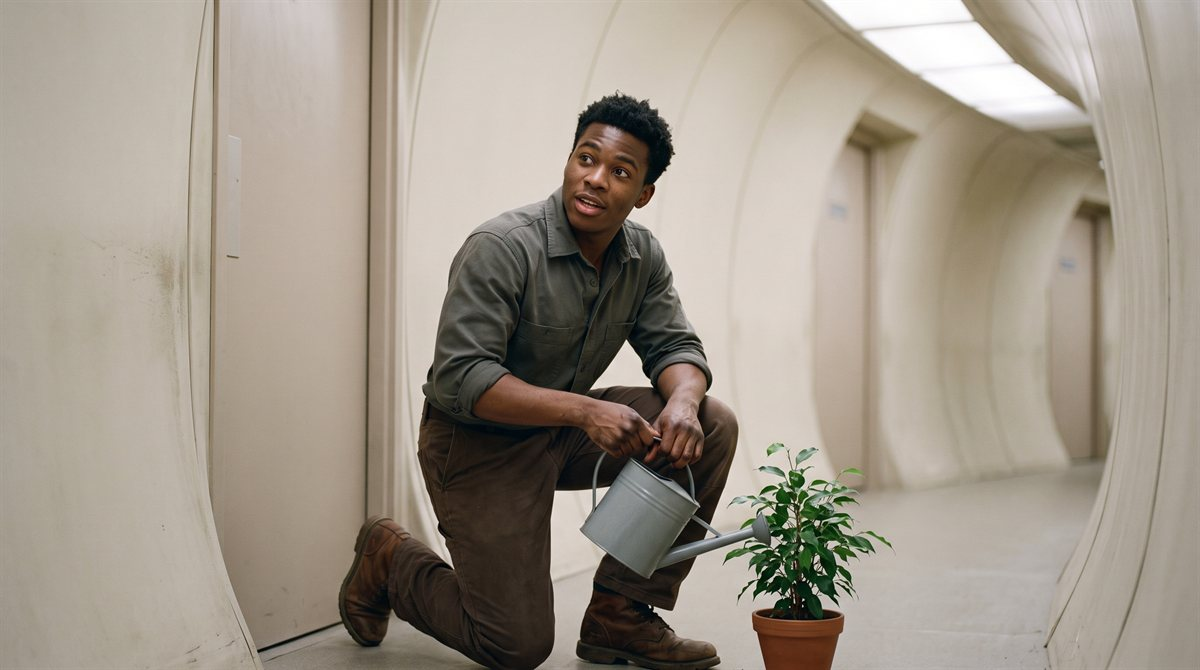
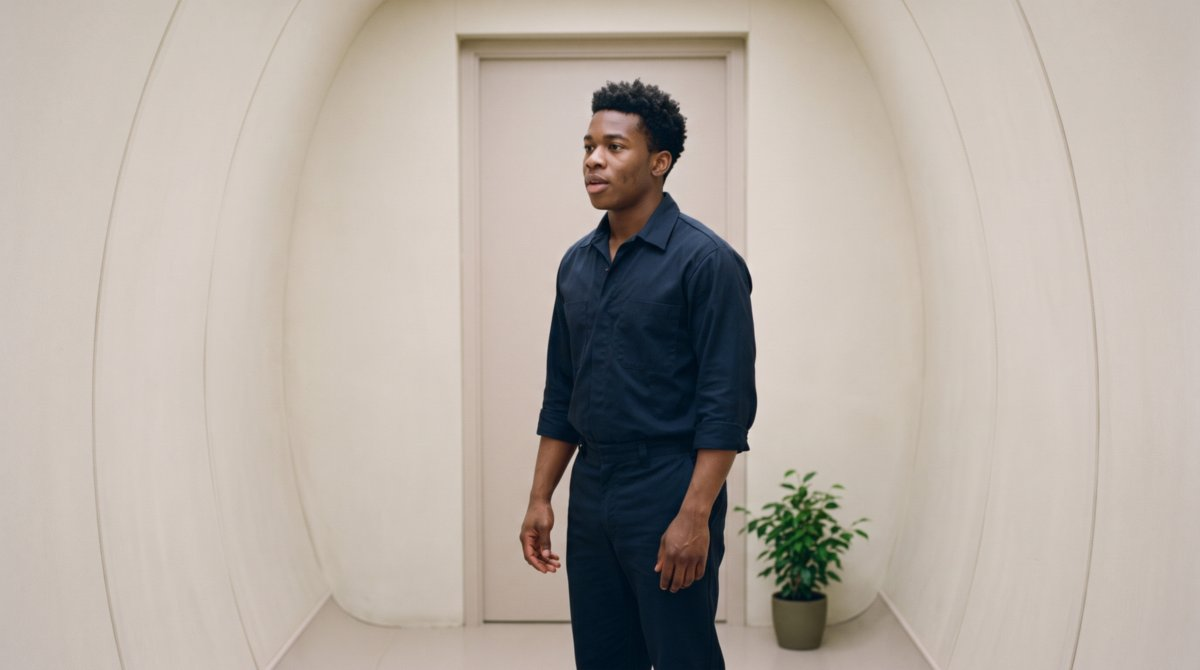
Rulings of 13 Oct: wardrobe, fashion, heritage, Seanad factions, Noah
Dermot's "Yes agreed" to five recommendations: civilian-dress
principles 11-13; the Seanad recognises no parties or factions; Noah's
portrait moves to the eighth day.

diff --git a/story-bible/images.md b/story-bible/images.md
@@ -1465,7 +1465,9 @@ variant 1; the record is in `image-prompts.md` under the same date.
   posing, not to camera (the 28 July guardrails, which are for everyone).
   The corridor is a habitat ring: smooth composite panels, a gentle upward
   curve, day-cycle light with no fittings showing. Nothing glowing.
-  > Cinematic candid portrait of a young man of nineteen or twenty, of West African heritage, crouched on one knee in a plain residential corridor aboard a large space habitat ring, beside a small potted plant standing on the floor outside a closed flush door. He holds a plain grey metal watering can in both hands, spout tilted down, and is looking up and to one side, off-frame, at someone out of shot, his expression open and about to speak. Ordinary civilian clothing of no recognisable period: a plain dark work shirt with the sleeves pushed up, soft dark trousers, no logos, no badges, no printed words. The corridor is smooth pale composite panelling curving gently upward out of frame, clean and slightly worn at hand height, with no signage, no displays, no screens, no visible lamp fittings, no letters and no numerals anywhere; even soft overhead light like a habitat's day cycle. The door behind him is blank. Documentary, available light, natural skin, shallow depth of field with the plant and his face sharp and the corridor soft, 35 mm film look, muted colour. No uniform, no weapon, no futuristic gadget, no hologram, no lens flare, no dramatic lighting, no glow, not looking at the camera, not smiling for the camera. Landscape orientation.
+  References: `story-bible/reference-art/noah-adeyemi-face-2026-10-13.jpg`
+  > Documentary photograph taken inside the world by a 29th-century camera, available light, 16:9 landscape, the face in the upper third of the frame: a young man of nineteen or twenty, of West African heritage, standing in a plain residential corridor aboard a large space habitat ring, just outside a closed flush door, a small potted plant on the floor beside the door, healthy and plainly not in need of anything. His hands are empty and a little awkward at his sides, deliberately empty; he has come out without the watering can on purpose. He is turned toward someone out of frame across the corridor, about to say his own name, a little too fast: candid, open, slightly braced, not smiling for anyone. The reference image shows this same young man: keep exactly his face, features, hair, age and build from it, and take nothing else from it, not the pose, the can or the light. His own clothes, chosen by him: a plain dark work shirt with the sleeves pushed up and soft dark trousers, cared for, no logos, no badges, no printed words. The corridor is smooth pale composite panelling meeting the floor in a rounded coving and curving gently upward out of frame, clean and kept, with no signage, no displays, no screens, no visible lamp fittings, no letters and no numerals anywhere; even soft light like a habitat's day cycle. The door behind him is blank. Photographed, not rendered: real skin with pores and the slight unevenness of a living face, cloth with a real weave and creases; high-ISO grain heavier in the shadows, a fast lens near wide open with shallow depth of field, his face and the plant sharp and the corridor soft, a touch under-exposed, muted natural colour. Negative: watering can, jug, cup or anything in his hands; crouching or kneeling; uniform, weapon, gadget, hologram, lens flare, dramatic lighting, glow; looking at the camera; readable text or numerals anywhere. Render negatives: 3D render, CGI, octane render, video-game render, animated film still, science-fiction film set, plastic sheen, airbrushed, over-smooth surfaces, glossy concept art, waxy skin. Landscape orientation.
+  - *(Revised 13 October 2026, Dermot's *"still not sure about Noah and his pot plant"*, then *"Yes agreed"* to option B: the portrait moves from the fourth day (crouched with the full can, the pretext) to the eighth (*he came back without the can*, empty hands, about to give his name), the moment his page and S09E01C04 turn on. The plant stays beside the door; the face is held by a reference to the filed portrait. Opens as a documentary photograph, with render negatives.)*
 
 - **`aravena.jpg`** — Surveyor, Fliade surface party, the newest and
   smallest of the three; carries the relay unit down the long passage and

diff --git a/story-bible/civilian-dress.md b/story-bible/civilian-dress.md
@@ -103,6 +103,28 @@ and the record now holds no character who dresses old. See* Ashcombe, ruled
 10. **The hint of the century.** A present-day frame *may look plain, worn and
     ordinary … but not period*; History is exempt (`images.md`, 7 October).
 
+11. **Each place has its own wardrobe, and people do not dress alike.** RULED
+    13 October 2026 (Dermot, *"Yes agreed"*, to option A of *One wardrobe for
+    every human world*, with his uniqueness and diversity directions of the
+    same day). The century lives in one detail of cloth (a closure, a seam,
+    how the cloth behaves); cut, layering, garment kind, colour and pattern
+    follow each place's climate, work and culture, and each person's age,
+    build and taste. The vocabulary below is a range, not an outfit. Ruling 4
+    stands: colour is personal, and no place has a colour custom unless a page
+    names one. A dress line is added per setting as pages need it.
+
+12. **Fashion is local and slow.** RULED the same day (option A). With no FTL
+    communication a look can travel no faster than a ship, so there is no
+    fashion across the settled worlds: each habitat and world has its own
+    current look, styles move within it and are carried between worlds by
+    people, and a ship's crew is recognisable as being from somewhere.
+
+13. **Heritage may show in one chosen thing.** RULED the same day (option A).
+    A person may carry their heritage in one choice of their own (a pattern, a
+    garment form, a way of wearing it), never as costume and never as the
+    picture's point, as Aethelrock's setts are a custom kept. Dress has not
+    converged, and it has not frozen either.
+
 ## What follows, by setting
 
 - **Habitat professional** (Eden, Threshold, the Compact). DERIVED: a plain
@@ -151,16 +173,20 @@ uniform was ruled on 12 October.
 
 ## How a prompt says it — PROPOSED
 
-**Positive.** *Plain, well-made everyday clothing of the twenty-ninth century:
-simple considered cuts, soft matte woven and knitted cloth in quiet natural
-colours, a plain or band collar, a jacket with a concealed closure and no
-lapels, clean and cared for, honest mends; nothing printed, nothing lettered.*
-Name the place's reason (*layered for a cool habitat*, *weatherproof for an
-upland*), and name the work.
+**Positive.** *Well-made everyday clothing of the twenty-ninth century: simple
+considered cuts, soft matte woven and knitted cloth, clean and cared for,
+honest mends; nothing printed, nothing lettered.* Then choose, per person and
+against the cast already filed (principles 11 to 13): the garment (not always
+a jacket), the colour (the wearer's own, quiet or strong), the collar, the fit,
+and any one heritage element. Name the place's reason (*layered for a cool
+habitat*, *weatherproof for an upland*), and name the work.
 
 **The hint, in cloth.** One detail of cut or closure no past century had: a
 closure with no visible fastening, a seam that is a line and not stitching,
-a cloth that drapes like wool and is not quite wool. Never a light.
+a cloth that drapes like wool and is not quite wool. Never a light. Use it on
+one garment in a frame, or not at all where the room or the sky already
+carries the century; it is not a description of every jacket (the 13 October
+review found *band collar* in 27 prompts).
 
 **Standard negative.** *No science-fiction costume, no skin-tight bodysuit, no
 cape, no glowing trim or light strips, no visible electronics or screens on

diff --git a/story-bible/open-questions.md b/story-bible/open-questions.md
@@ -2889,7 +2889,7 @@ drafted as `src/lore/the-archive.md`. Realized as `lib/archive-companions.js`
 and the *From the Archive* aside on every chapter; seventeen chapters carry
 the first `related:` lists. Nothing open.
 
-## Inter-clan parties and intra-clan factions in the Seanad — `intake-2026-10-06.md` — OPEN, his
+## ~~Inter-clan parties and intra-clan factions in the Seanad~~ — `intake-2026-10-06.md` — RULED 13 October 2026 (*Yes agreed*: (i), they exist in fact and the Seanad recognises neither; realized on *The Seanad Draw*)
 
 Dermot's direction, verbatim *status of inter-clan parties of intra-clan
 factions to be determined*. The glossary entry *The Seanad Draw* marks the
@@ -2993,6 +2993,6 @@ His direction that *genetic disorders can often be treated and cured during preg
 
 The table's columns are the 13th and 21st centuries (CE, the USC scholars' own notation before adoption) and the 29th (UCSD); in CE the present is the 27th, so the table reads an 800-year gap that is 600. The Saint Aoife page, Breanainn Ó Sé and *The Warm-Edge Correlation* set *a thirteenth-century holy woman* beside *a twenty-ninth-century* taxonomist or station the same way. (A) Label the columns and phrases with their calendars, *29th century UCSD (27th CE)*, and add one sentence in the page's own voice that the framework was built in CE and extended in UCSD; recommended, a clarification. (B) Re-key the page to CE throughout (*27th century*). (C) Leave the notation and only add the sentence, the mix itself being the in-world artefact.
 
-## One wardrobe for every human world — `civilian-dress.md`, review of 13 October 2026 — OPEN, his
+## ~~One wardrobe for every human world~~ — `civilian-dress.md`, review of 13 October 2026 — RULED same day (*Yes agreed*: (A); with fashion local and slow, and heritage in one chosen thing, principles 11 to 13)
 
 The note's prompt vocabulary (plain considered cuts, quiet natural colours, band collar, concealed closure) is applied everywhere, so Eden, Aethelrock, Thalassa, the frontier and Mars dress alike: *band collar* appears 27 times in `images.md`, and the 13 October cast sheet shows most of the cast in the same charcoal or olive jacket. That pulls against the same day's diversity and uniqueness directions. (A) The century lives in one detail of cloth (the closure, the seam, how it behaves); cut, layering, garment kind, colour and pattern follow each place's climate, work and culture, a dress line added per setting as pages need it; recommended, a clarification that leaves ruling 4 (colour personal, no colour customs) standing. (B) Write per-world dress notes now for the charter worlds, Eden, Thalassa and Mars. (C) Keep the vocabulary; vary colour only.

diff --git a/story-bible/intake-2026-10-13.md b/story-bible/intake-2026-10-13.md
@@ -203,3 +203,28 @@ would otherwise look too similar."* Applied the same day in the cross-cast pass
 (`images.md`): six portraits changed, the looks their pages leave open chosen
 and recorded as his to change. *Direction check:* an extension of the
 uniqueness rule; no page states a look that changed.
+
+## Wardrobe, fashion, heritage, the Seanad and Noah — RULED (*Yes agreed*)
+
+Five recommendations put the same afternoon, accepted together:
+
+- **One wardrobe for every human world** (raised by the parallel review, PR
+  #1164): option A. Cut, layering, garment kind, colour and pattern follow
+  each place and person; the century lives in one detail of cloth.
+  `civilian-dress.md` principle 11.
+- **Fashion is local and slow** (no FTL, so no fashion across the worlds):
+  principle 12.
+- **Heritage may show in one chosen thing**, never costume: principle 13.
+- **Seanad parties and factions** (open since 6 October): option (i), they
+  exist in fact and the Seanad recognises neither, realized on *The Seanad
+  Draw* in place of the marked absence. *Direction check:* an extension; the
+  absence was marked to be filled.
+- **Noah's portrait** moves to the eighth day, empty hands, the plant beside
+  the door (`images.md`). The scene itself is unchanged in S09E01C02 and C04.
+
+**A wardrobe artefact** (his *"A wardrobe artefact if needed"*): not built yet.
+Under the 9 October rule a reference artefact is derived from the record and
+never a second one, and the per-place dress lines principle 11 calls for do
+not exist yet; once a few settings carry one, a derived wardrobe board (by
+place, with the filed portraits as examples) can be generated from
+`civilian-dress.md` and the character pages.

diff --git a/CHANGELOG.md b/CHANGELOG.md
@@ -6,6 +6,8 @@ The format loosely follows [Keep a Changelog](https://keepachangelog.com/en/1.1.
 
 ## [Unreleased]
 
+- **The Seanad recognises no parties or factions** (`src/glossary/the-seanad-draw.md`, 2026-10-13). Senators of different clans do combine on the floor and a clan's senators sometimes divide, but no association or faction appears on the ballot or in the chamber's record, holds a bench or a whip, or speaks as a body; the marked absence is filled at Dermot's ruling. Also: Noah Adeyemi's portrait now shows the eighth day, empty-handed at his door, and the civilian dress note gains three principles (each place its own wardrobe, fashion local and slow, heritage in one chosen thing).
+
 - **Six portraits made distinct from characters they resembled** (`story-bible/images.md`, 2026-10-13). After a side-by-side look at all 75 human portraits, Rutger Voss, Wren and Adaeze Okafor, Zoe Smith, Yusuf Adair and Sofia Santos are regenerated so no two characters share a face, at Dermot's direction that existing characters may gain diversity where they would otherwise look too similar; the Okafor sisters keep a family likeness. Lev's pet carrier is now a seamless capsule of the century.
 
 - **Centuries labelled with their calendars** (2026-10-13). *Civilisation Comparison* names its eras as the 13th and 21st centuries CE and the 29th century UCSD (27th CE), with a note that the framework was built in the old count and extended in the new, so its third era lies six centuries after the second, not eight. The same labels in the framework's timeline entry, *What the Record Refuses*, and the Saint Aoife and Breanainn Ó Sé pages.

diff --git a/src/glossary/the-seanad-draw.md b/src/glossary/the-seanad-draw.md
@@ -26,7 +26,7 @@ Each of the six charter worlds returns the same number of senators, whatever its
 
 A drawn candidate states one thing on the ballot beside their name: the clan of their birth or adoption, as the world's registry recorded it before the draw. No clan may nominate a candidate, endorse one, or spend on one, on the same reasoning the Union applies to titles: an institution that cannot be courted cannot be captured. The clan on the ballot is a fact the voter may weigh, and it is the only clan fact the draw admits.
 
-Whether senators of different clans combine on the floor into standing associations, and whether a clan divides against itself there, the record has not established. The Union's own documents on the point are quoted as written, and they are silent.
+Senators of different clans do combine on the floor, and a clan's senators sometimes divide against each other there; the Seanad recognises neither. No association or faction appears on the ballot or in the chamber's record, holds a bench or a whip, or speaks as a body: members speak and vote as themselves, and the record names who voted, never with whom. It is the arrangement the Union keeps for titles, a fact that is observed and that nobody administers. A chamber that binds no member world gives an association nothing to win but the look of the room, and the lot returns a third of the bench to the people every term.
 
 ## Why a chamber with nothing to decide is seated with such care
 

diff --git a/src/characters/noah-adeyemi.md b/src/characters/noah-adeyemi.md
@@ -6,7 +6,7 @@ species: Human
 role: "Resident, Eden Space Habitat — the door with the plant outside it, fold-approach side of the ring"
 status: Active
 image: "noah-adeyemi.jpg"
-image_alt: "Noah Adeyemi, a young man of nineteen or twenty, crouched on one knee in a pale curving habitat corridor beside a small potted plant standing on the floor, a grey watering can held in both hands, looking up and to one side at someone out of frame, about to speak."
+image_alt: "Noah Adeyemi, a young man of nineteen or twenty, standing in a pale curving habitat corridor outside a closed door, a small potted plant on the floor beside it, his hands empty at his sides, turned toward someone out of frame and about to speak."
 aliases: []
 tags: [human, eden, resident, young-star-rangers, season-9]
 description: "A resident of Eden's fold-approach side, nineteen or twenty, who noticed the hatch nobody looks at, looked up what three bars at a collar meant, and was crouched at the plant with a full watering can when it opened — the first person on the ring to read the Deputy, and the first the Deputy misread."
